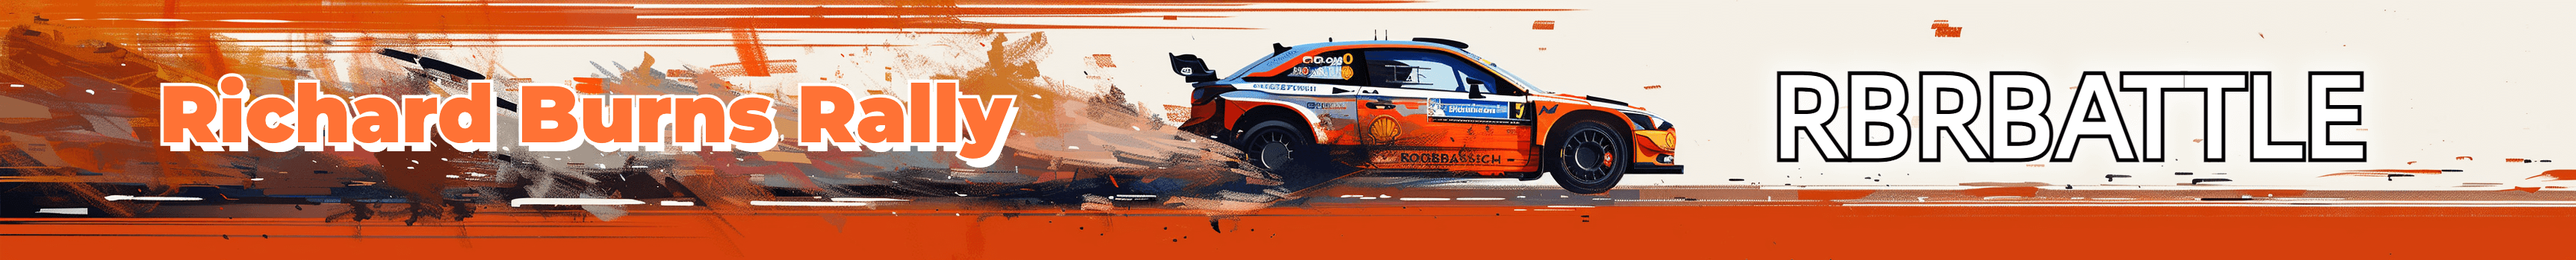
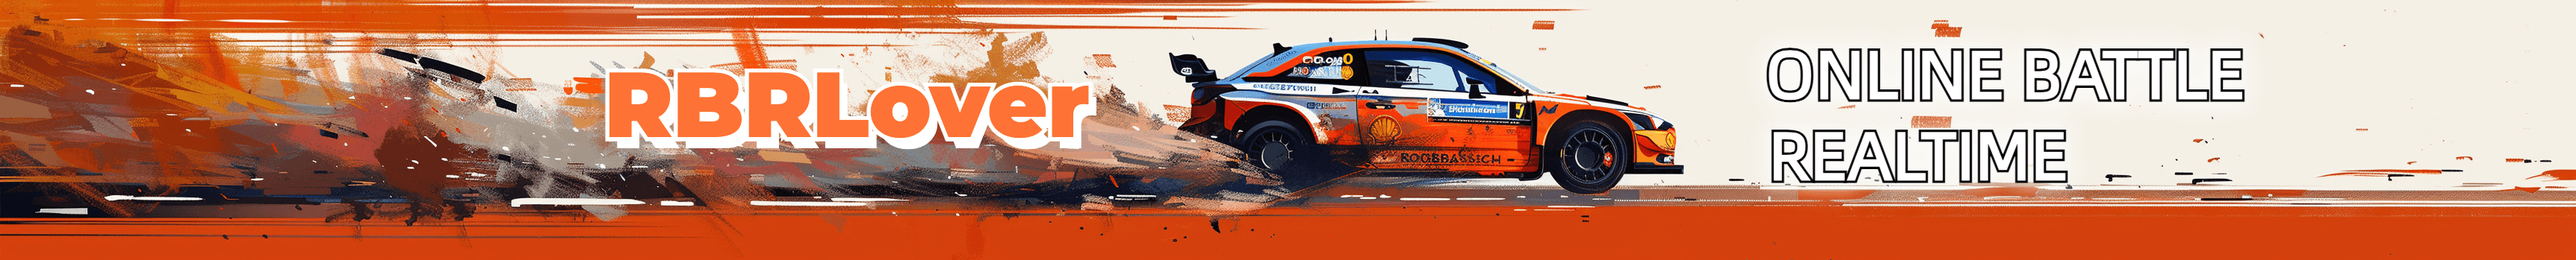
update web template

diff --git a/rbnserver/templates/index.html b/rbnserver/templates/index.html
@@ -7,7 +7,7 @@
     <div class="topnav">
         <div class="wrapper wp">
             <div class="logo">
-                RBR实时联机对战平台-RBRBATTLE
+                RBRLover拉力爱好者联机平台
             </div>
             <div class="navs">
                 <a href="/" class="nav cur">首页/Home</a>

diff --git a/rbnserver/templates/rank.html b/rbnserver/templates/rank.html
@@ -7,7 +7,7 @@
     <div class="topnav">
         <div class="wrapper wp">
             <div class="logo">
-                RBR实时联机对战平台-RBRBATTLE
+                RBRLover拉力爱好者联机平台
             </div>
             <div class="navs">
                 <a href="/" class="nav">首页/Home</a>
